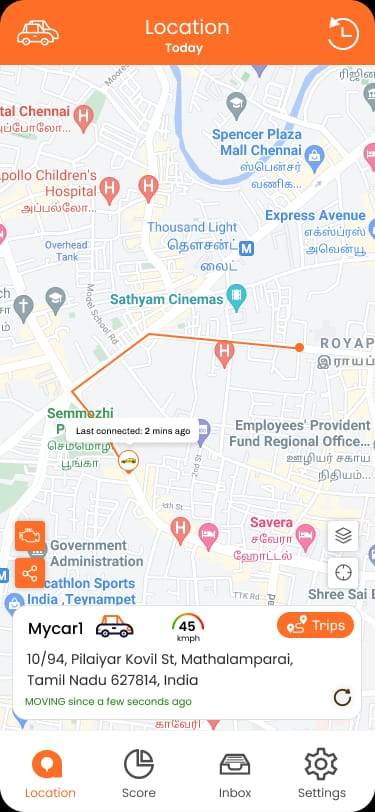
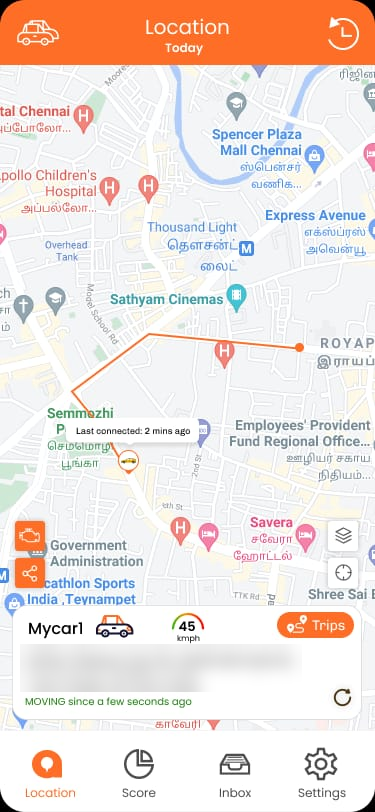
updated images and title

Changed region(s): [[0.0587, 0.8005, 0.7627, 0.8621]]

diff --git a/index.html b/index.html
@@ -3,9 +3,13 @@
 
 <head>
   <meta charset="UTF-8" />
-  <title>Nivedhitha Parthasarathy — Front-End &amp; Mobile Engineer</title>
+  <title>Nivedhitha Parthasarathy — Mobile Engineer (React Native &amp; iOS)</title>
   <meta name="viewport" content="width=device-width,initial-scale=1" />
-  <meta name="description" content="Front-End &amp; Mobile Engineer (React, React Native, iOS) based in Amsterdam. Portfolio of production apps across telematics, fleet operations and EV mobility." />
+  <meta name="description" content="Mobile engineer in Amsterdam working across native iOS (Swift) and cross-platform React Native, with 6.5 years in software. Production apps for telematics and EV fleets." />
+  <meta property="og:type" content="website" />
+  <meta property="og:url" content="https://nivedhitha97.github.io/nivedhitha/" />
+  <meta property="og:title" content="Nivedhitha Parthasarathy — Mobile Engineer (React Native &amp; iOS)" />
+  <meta property="og:description" content="Mobile engineer, 6.5 years in software. Production React Native apps for telematics and EV fleets, native iOS in Swift and SwiftUI, backend experience in C#, now learning Node.js. Based in Amsterdam." />
   <link
     href="https://fonts.googleapis.com/css2?family=DM+Serif+Display:ital@0;1&family=DM+Sans:ital,opsz,wght@0,9..40,300;0,9..40,400;0,9..40,500;0,9..40,600;1,9..40,400&display=swap"
     rel="stylesheet">
@@ -1069,15 +1073,16 @@
         <div>
           <div class="hero-eyebrow">Available for new roles</div>
           <h1 class="hero-name">I build mobile apps<br>that feel <em>truly native.</em></h1>
-          <p class="hero-desc">Nivedhitha Parthasarathy — Front-End &amp; Mobile Engineer with 6+ years across telematics, fleet
-            operations, and EV mobility. React Native &amp; iOS apps that are fast, intentional, and quietly premium.
+          <p class="hero-desc">Nivedhitha Parthasarathy — Mobile engineer working across native iOS (Swift) and cross-platform
+            React Native, with 6.5 years in software and production apps for telematics and EV fleets. Based in Amsterdam,
+            no sponsorship needed.
           </p>
           <div class="hero-stats">
-            <div class="stat-item"><span class="stat-num">6+</span><span class="stat-label">Years</span></div>
+            <div class="stat-item"><span class="stat-num">2.5</span><span class="stat-label">Years React Native</span></div>
             <div class="stat-divider"></div>
-            <div class="stat-item"><span class="stat-num">4</span><span class="stat-label">Products shipped</span></div>
+            <div class="stat-item"><span class="stat-num">2.5</span><span class="stat-label">Years native iOS</span></div>
             <div class="stat-divider"></div>
-            <div class="stat-item"><span class="stat-num">40%</span><span class="stat-label">Less tech debt</span></div>
+            <div class="stat-item"><span class="stat-num">4</span><span class="stat-label">Production apps</span></div>
           </div>
           <div class="hero-actions">
             <a href="#work" class="btn-gold">See my work <svg width="14" height="14" viewBox="0 0 24 24" fill="none"
@@ -1108,7 +1113,7 @@
       <div class="work-header reveal">
         <div class="section-eyebrow">Selected work</div>
         <h2 class="section-heading">Products I've helped ship</h2>
-        <p class="section-sub">Swipe or click through four production apps — tap a screen to bring it to the front. Screenshots are from the public App Store / Google Play listings.</p>
+        <p class="section-sub">Swipe or click through four production apps — tap a screen to bring it to the front. Screenshots come from the public App Store and Google Play listings and from my own development builds.</p>
       </div>
 
       <div class="carousel-outer" id="carouselOuter">
@@ -1147,18 +1152,9 @@
           </div>
           <div>
             <div class="exp-role">Senior Software Engineer — React Native</div>
-            <div class="exp-company">Nesh &nbsp;<span style="color:var(--text-muted);font-weight:400;">· Apr 2022 – Sep
-                2024 · Chennai, India</span></div>
-            <p class="exp-desc">Reduced technical debt by 40% and sustained a 98%+ crash-free rate by migrating a
-              high-volume telematics app from class-based to functional architecture — TypeScript throughout, Redux Saga
-              for async state, and a reusable component library shared across feature teams. Shipped
-              performance-sensitive real-time data features on a weekly cadence, owning end-to-end scoping,
-              implementation, and release. Cut build and release cycle time by designing CI/CD pipelines with GitHub
-              Actions and Fastlane — enabling zero-touch weekly deployments to both App Store and Google Play. Improved
-              release confidence by introducing feature flags and integration test coverage with Jest and Detox.</p>
-            <div class="exp-tags"><span class="tag">React Native</span><span class="tag">TypeScript</span><span
-                class="tag">Redux Saga</span><span class="tag">iOS &amp; Android</span><span class="tag">GitHub
-                Actions</span><span class="tag">Fastlane</span><span class="tag">Jest / Detox</span></div>
+            <div class="exp-company">Nesh &nbsp;<span style="color:var(--text-muted);font-weight:400;">· Apr 2022 – Sep 2024 · Chennai, India</span></div>
+            <p class="exp-desc">Worked on four production React Native apps for iOS and Android in telematics and EV fleets. Built FleetLive from base architecture to production, migrated Montra Electric Driver's data layer from AWS AppSync (GraphQL) to GCP REST APIs and upgraded it from React Native 0.68.5 to 0.72.5, and moved class components to functional components with Hooks and TypeScript. Handled versioning, App Store and Play Store releases and hotfixes through the team's GitHub Actions and Fastlane workflows, and wrote Jest and Detox tests for selected screens as a proof of concept.</p>
+            <div class="exp-tags"><span class="tag">React Native</span><span class="tag">TypeScript</span><span class="tag">Redux Saga</span><span class="tag">iOS &amp; Android</span><span class="tag">Firebase</span><span class="tag">GitHub Actions</span><span class="tag">Fastlane</span><span class="tag">Jest / Detox</span></div>
           </div>
         </div>
         <div class="exp-item">
@@ -1166,19 +1162,10 @@
             <div class="exp-dot" style="background:var(--text-muted);box-shadow:none;"></div>
           </div>
           <div>
-            <div class="exp-role">System Analyst — iOS &amp; Backend</div>
-            <div class="exp-company">Sensiple &nbsp;<span style="color:var(--text-muted);font-weight:400;">· May 2018 –
-                Apr 2022 · Chennai, India</span></div>
-            <p class="exp-desc">Improved API throughput and reduced internal system downtime by rebuilding backend
-              workflow services in C# and ASP.NET, eliminating bottlenecks in a business process automation platform
-              serving multiple enterprise clients. Prototyped secure, high-precision iOS interfaces in Swift using MVVM
-              architecture — establishing component and data-layer patterns later adopted as the team standard for
-              financial application development. Delivered end-to-end features across 4 years in a cross-functional
-              Agile team, consistently scoping work into testable tasks and maintaining UI performance under tight
-              sprint cadence.</p>
-            <div class="exp-tags"><span class="tag">Swift</span><span class="tag">iOS</span><span
-                class="tag">MVVM</span><span class="tag">C#</span><span class="tag">ASP.NET</span><span class="tag">REST
-                APIs</span><span class="tag">Agile</span></div>
+            <div class="exp-role">System Analyst — iOS &amp; .NET</div>
+            <div class="exp-company">Sensiple &nbsp;<span style="color:var(--text-muted);font-weight:400;">· May 2018 – Apr 2022 · Chennai, India</span></div>
+            <p class="exp-desc">About 2.5 years in the R&amp;D team building iOS prototypes in Swift and UIKit with MVVM, including three for capital-markets and banking use cases, and 1.5 years in the product team building C# and ASP.NET middleware for a chatbot product.</p>
+            <div class="exp-tags"><span class="tag">Swift</span><span class="tag">UIKit</span><span class="tag">MVVM</span><span class="tag">iOS</span><span class="tag">C#</span><span class="tag">ASP.NET</span><span class="tag">Agile</span></div>
           </div>
         </div>
         <div class="exp-item">
@@ -1186,17 +1173,21 @@
             <div class="exp-dot" style="background:var(--text-muted);box-shadow:none;"></div>
           </div>
           <div>
-            <div class="exp-role">Independent Upskilling &amp; Relocation</div>
-            <div class="exp-company">Self-directed &nbsp;<span style="color:var(--text-muted);font-weight:400;">· Oct
-                2024 – Present · Amsterdam, Netherlands</span></div>
-            <p class="exp-desc">Built <a href="https://github.com/nivedhitha97/SmartGroceryApp" target="_blank"
-                style="color:var(--gold);text-decoration:none;">SmartGroceryApp</a> — a SwiftUI iOS app with full MVVM
-              architecture, Combine-driven state management, and a Codable JSON service layer — using Cursor and Claude
-              as an AI-assisted development workflow. Expanding into full-stack development with GitHub Copilot, Cursor,
-              and Claude as daily accelerators for code generation, debugging, and architectural decision-making.</p>
-            <div class="exp-tags"><span class="tag">SwiftUI</span><span class="tag">MVVM</span><span
-                class="tag">Combine</span><span class="tag">Cursor</span><span class="tag">GitHub Copilot</span><span
-                class="tag">AI-assisted dev</span></div>
+            <div class="exp-role">Freelance iOS Developer</div>
+            <div class="exp-company">Pyramidions Solutions &nbsp;<span style="color:var(--text-muted);font-weight:400;">· Sep – Oct 2021 · Remote</span></div>
+            <p class="exp-desc">Built several screens for a client's e-commerce iOS app in Swift (MVVM) and connected them to the app's API data.</p>
+            <div class="exp-tags"><span class="tag">Swift</span><span class="tag">iOS</span><span class="tag">MVVM</span></div>
+          </div>
+        </div>
+        <div class="exp-item">
+          <div>
+            <div class="exp-dot" style="background:var(--text-muted);box-shadow:none;"></div>
+          </div>
+          <div>
+            <div class="exp-role">Independent projects &amp; relocation</div>
+            <div class="exp-company">Self-directed &nbsp;<span style="color:var(--text-muted);font-weight:400;">· Oct 2024 – Present · Chennai &amp; Amsterdam</span></div>
+            <p class="exp-desc">Passed the Dutch civic integration exam as part of my visa process, moved to Amsterdam in May 2025, interviewed for mobile roles and kept building. <a href="https://github.com/nivedhitha97/SmartGroceryApp" target="_blank" style="color:var(--gold);text-decoration:none;">Smart Meal Planner</a> is a SwiftUI iOS app that builds meal plans from dietary preferences and nutrition goals, using MVVM, Combine and a Codable JSON service layer. I also completed a React Native take-home, <a href="https://github.com/nivedhitha97/CryptoApp" target="_blank" style="color:var(--gold);text-decoration:none;">CryptoApp</a>. I use Cursor, GitHub Copilot and Claude day to day, and I'm learning Node.js to build on my C# backend experience and move toward full-stack work.</p>
+            <div class="exp-tags"><span class="tag">SwiftUI</span><span class="tag">MVVM</span><span class="tag">Combine</span><span class="tag">React Native</span><span class="tag">Cursor</span><span class="tag">GitHub Copilot</span><span class="tag">AI-assisted dev</span><span class="tag">Node.js (learning)</span></div>
           </div>
         </div>
       </div>
@@ -1235,17 +1226,17 @@
           <div class="arch-icon"><svg viewBox="0 0 24 24">
               <path d="M12 2L2 7l10 5 10-5-10-5zM2 17l10 5 10-5M2 12l10 5 10-5" />
             </svg></div>
-          <div class="arch-title">Networking that fails gracefully</div>
-          <p class="arch-desc">A clean API layer with retry logic, caching, and offline-first patterns that users never
-            notice until they need them.</p>
+          <div class="arch-title">An API layer you can swap</div>
+          <p class="arch-desc">API calls live in one layer, so a backend change, like moving from GraphQL to REST, doesn't ripple
+            through the screens.</p>
         </div>
         <div class="arch-card reveal" style="transition-delay:0.24s">
           <div class="arch-icon"><svg viewBox="0 0 24 24">
               <polyline points="22 12 18 12 15 21 9 3 6 12 2 12" />
             </svg></div>
-          <div class="arch-title">Release-ready pipeline</div>
-          <p class="arch-desc">OTA updates, crash analytics, automated builds, and stable release channels so every
-            deploy is a non-event.</p>
+          <div class="arch-title">Releases as routine</div>
+          <p class="arch-desc">Versioning, store submissions, hotfixes and crash monitoring are part of the work, so shipping
+            stays predictable.</p>
         </div>
       </div>
     </section>
@@ -1256,7 +1247,7 @@
         <div>
           <div class="section-eyebrow">Get in touch</div>
           <h2 class="contact-heading">Let's build something <em>worth using.</em></h2>
-          <p class="contact-sub">Always open to discussing mobile engineering, product design, or new opportunities.</p>
+          <p class="contact-sub">Open to mobile engineering roles, React Native or iOS, in the Netherlands, hybrid or remote. I have Dutch work authorization and don't need sponsorship.</p>
           <a href="mailto:nivedhithapsarati@gmail.com" class="btn-gold">Send an email</a>
         </div>
         <div class="contact-detail">
@@ -1314,10 +1305,7 @@
       "YR": "assets/screenshots/mytvs-vehicle-report.png",
       "YS": "assets/screenshots/mytvs-vehicle-summary.png",
     };
-    const PROJECTS = [{ "id": "assetmatics", "title": "Assetmatics", "accent": "#F5A623", "accentRgb": "245,166,35", "tagline": "Real-time vehicle intelligence for connected fleets", "about": "A production telematics app giving fleet operators live visibility into every vehicle \u2014 location, speed, driver behaviour, trip history, and configurable alerts. I joined as a core contributor, maintaining and evolving the app across iOS and Android.", "contributions": ["Delivered bug fixes, new features, and feature enhancements across location, trip, score, and alert modules", "Handled app versioning, App Store uploads, and Play Store submissions for each release cycle", "Managed production maintenance, hotfix releases, and post-release stability monitoring", "Improved reliability across all core modules \u2014 location tracking, trip recording, driver scoring, and alert configuration", "Contributed to ongoing performance and UX improvements as a core member of the production team"], "tags": ["React Native", "iOS", "Android", "App Store", "Play Store", "Telematics"], "screens": [["AL", "Location map"], ["AS", "Driver score"], ["AT", "Trip details"], ["AA", "Alert settings"]] }, 
-                      { "id": "fleetlive", "title": "Fleetlive", "accent": "#7B8FF5", "accentRgb": "123,143,245", "tagline": "EV fleet monitoring app \u2014 built from scratch to production", "about": "An enterprise EV fleet monitoring app for delivery companies operating two-wheelers across multiple cities. I owned this product end-to-end \u2014 from base architecture through every major feature to production release.", "contributions": ["Built the entire app from base architecture to production \u2014 designed the codebase structure, navigation, and data layer", "Implemented all major features: dashboard, live tracking, vehicle summaries, trip reports, and vehicle insights", "Designed and optimised map rendering, marker clustering, and real-time vehicle position updates", "Integrated FCM push notifications and Firebase Analytics for event tracking across the app", "Performed code restructuring, performance tuning, and image optimisation to improve load times", "Wrote API documentation in Postman and reported API vulnerabilities to the backend team", "Managed app versioning, store uploads, production hotfixes, and full release cycles end-to-end"], "tags": ["React Native", "Android", "Firebase", "FCM", "Maps", "Postman", "EV Fleet"], "screens": [["FT", "Live tracking"], ["FD", "Fleet dashboard"], ["FV", "Vehicle summary"], ["FR", "Trip reports"]] }, 
-                      { "id": "mytvs", "title": "MyTVS DrivePlus", "accent": "#60A5FA", "accentRgb": "96,165,250", "tagline": "Vehicle management app \u2014 first-version feature build", "about": "A B2B vehicle management and fleet reporting app for enterprise clients. I worked on the initial version, building the foundational features that defined the app's structure and user experience.", "contributions": ["Built the initial app features from the ground up \u2014 login, dashboard, vehicle details, and data-driven UI screens", "Developed data-driven UI components that rendered live vehicle metrics, odometer readings, and alert breakdowns", "Ensured clean UI hierarchy and mobile-friendly layouts across different screen sizes", "Established the visual and structural patterns used as the baseline for subsequent app development"], "tags": ["iOS", "React Native", "UI Development", "Fleet Analytics", "B2B"], "screens": [["YR", "Report detail"], ["YS", "Vehicle summary"]] }, 
-                      { "id": "montra", "title": "Montra Electric Driver", "accent": "#4ADE80", "accentRgb": "74,222,128", "tagline": "EV driver companion \u2014 deep infrastructure migration", "about": "A connected EV driver app for Montra Electric riders. My role was a deep engineering engagement \u2014 not UI work, but a critical infrastructure overhaul migrating the entire data layer to a new backend architecture.", "contributions": ["Migrated the entire data layer from AWS AppSync (GraphQL) to GCP REST API \u2014 a full backend integration overhaul", "Refactored all API integration logic to align with the new GCP backend structure and response contracts", "Upgraded React Native to a newer major version, resolving breaking changes across the dependency tree", "Updated and stabilised all supporting libraries affected by the RN version upgrade", "Ensured backward compatibility throughout the migration \u2014 no regressions to existing user-facing features", "Delivered a smooth, invisible migration: users saw no disruption; the engineering foundation was entirely replaced"], "tags": ["React Native", "GraphQL", "REST API", "AWS", "GCP", "Migration", "Infrastructure"], "screens": [["MV", "Vehicle management"], ["MP", "Driver profile"]] }];
+    const PROJECTS = [{"id": "assetmatics", "title": "Assetmatics", "accent": "#F5A623", "accentRgb": "245,166,35", "tagline": "Real-time vehicle intelligence for connected fleets", "about": "A production telematics app giving fleet operators live visibility into every vehicle \u2014 location, speed, driver behaviour, trip history, and configurable alerts. I joined as a core contributor, maintaining and evolving the app across iOS and Android.", "contributions": ["Delivered bug fixes, new features, and feature enhancements across location, trip, score, and alert modules", "Handled app versioning, App Store uploads, and Play Store submissions for each release cycle", "Managed production maintenance, hotfix releases, and post-release stability", "Improved reliability in location tracking, trip recording, driver scoring, and alert configuration"], "tags": ["React Native", "iOS", "Android", "App Store", "Play Store", "Telematics"], "screens": [["AL", "Location map"], ["AS", "Driver score"], ["AT", "Trip details"], ["AA", "Alert settings"]]}, {"id": "fleetlive", "title": "FleetLive", "accent": "#7B8FF5", "accentRgb": "123,143,245", "tagline": "EV fleet monitoring app \u2014 built from scratch to production", "about": "An EV fleet-monitoring app for delivery companies running two-wheeler fleets across several cities. I built it from base architecture to production release.", "contributions": ["Built the entire app from base architecture to production \u2014 designed the codebase structure, navigation, and data layer", "Implemented all major features: dashboard, live tracking, vehicle summaries, trip reports, and vehicle insights", "Designed and optimised map rendering, marker clustering, and real-time vehicle position updates", "Integrated FCM push notifications and Firebase Analytics for event tracking across the app", "Performed code restructuring, performance tuning, and image optimisation to improve load times", "Wrote API documentation in Postman and reported API vulnerabilities to the backend team", "Managed app versioning, store uploads, production hotfixes, and full release cycles end-to-end"], "tags": ["React Native", "iOS", "Android", "Firebase", "FCM", "Maps", "Postman", "EV Fleet"], "screens": [["FT", "Live tracking"], ["FD", "Fleet dashboard"], ["FV", "Vehicle summary"], ["FR", "Trip reports"]]}, {"id": "mytvs", "title": "myTVS Drive Plus", "accent": "#60A5FA", "accentRgb": "96,165,250", "tagline": "Vehicle management app \u2014 first-version feature build", "about": "A B2B vehicle-management and fleet-reporting app for enterprise clients. I worked on the first version, building its core screens.", "contributions": ["Built first-version features: login, dashboard, vehicle details, and data-driven screens", "Developed data-driven UI components that rendered live vehicle metrics, odometer readings, and alert breakdowns", "Kept layouts clean and consistent across different screen sizes"], "tags": ["React Native", "iOS", "Android", "UI Development", "Fleet Analytics", "B2B"], "screens": [["YR", "Report detail"], ["YS", "Vehicle summary"]]}, {"id": "montra", "title": "Montra Electric Driver", "accent": "#4ADE80", "accentRgb": "74,222,128", "tagline": "EV driver app \u2014 data-layer migration", "about": "A connected EV app for Montra Electric riders. I moved the app's data layer from AWS AppSync (GraphQL) to new GCP REST APIs and upgraded React Native, keeping existing features working throughout.", "contributions": ["Migrated the data layer from AWS AppSync (GraphQL) to GCP REST APIs", "Refactored the API integration logic to match the new backend's structure and response contracts", "Upgraded React Native from 0.68.5 to 0.72.5, resolving breaking changes across dependencies", "Updated and stabilised the supporting libraries affected by the upgrade", "Kept existing features backward compatible throughout the migration"], "tags": ["React Native", "GraphQL", "REST API", "AWS", "GCP", "Migration", "Infrastructure"], "screens": [["MV", "Vehicle management"], ["MP", "Driver profile"]]}];
 
     // Public store listings for each product (Montra has been delisted)
     const STORE_LINKS = {
